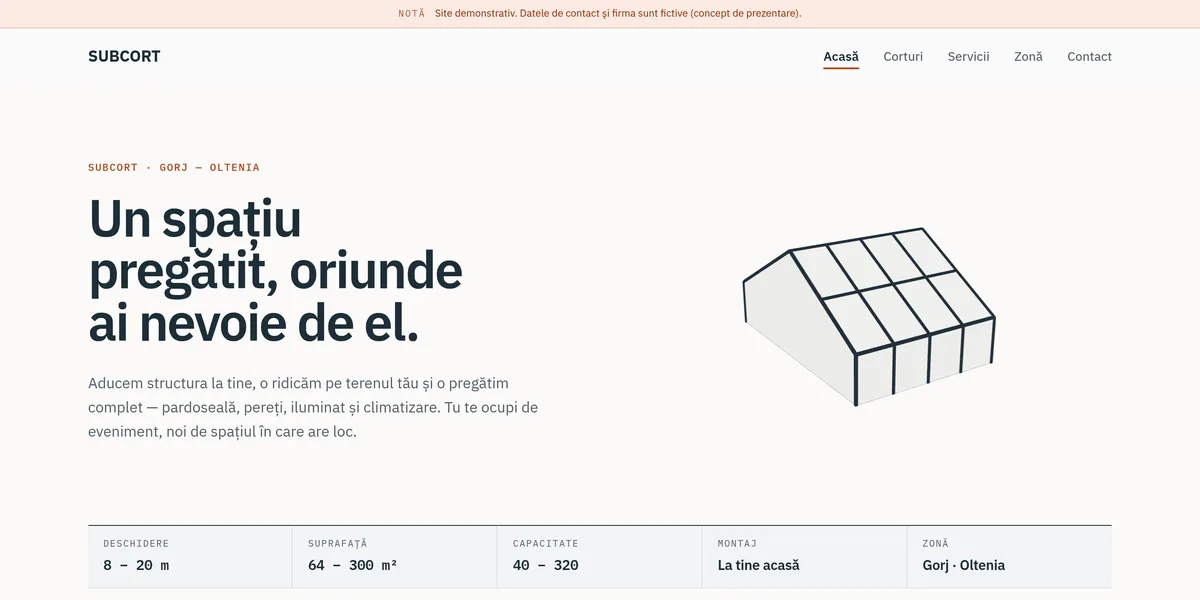
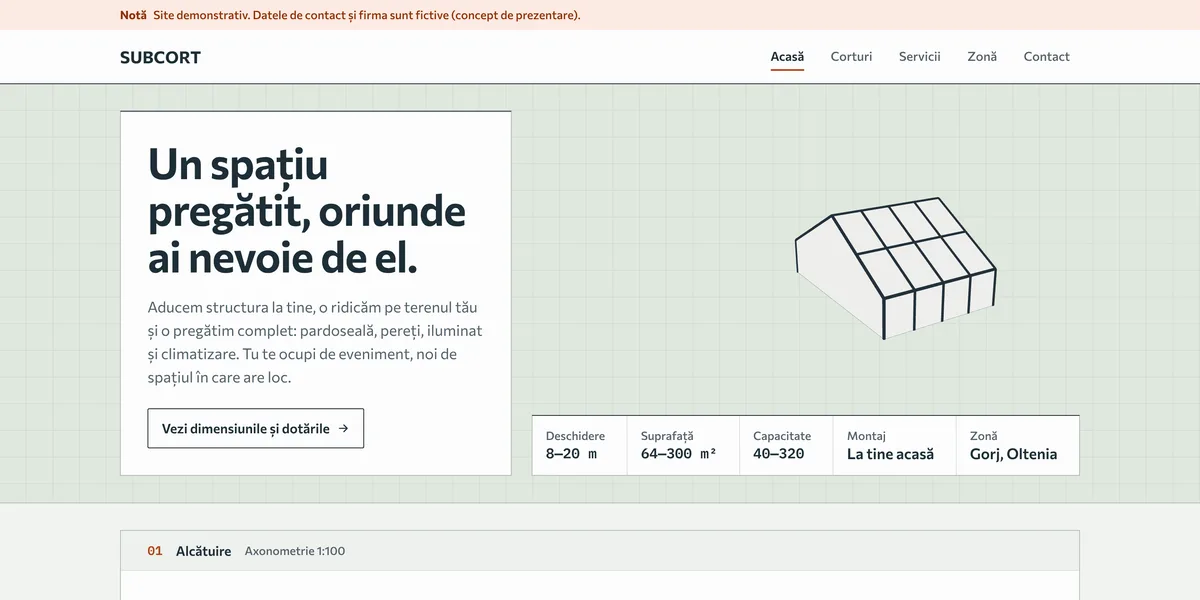
Docs: the README and the four business sites' screenshots after their redesigns
The saloon, auto-service, subcort and tractari first screens are re-taken from local dev servers (saloon and auto-service in mock mode), since the 2026-11-13 redesigns are not deployed. shots.md records the method, the ports and why tractari is clipped. churchix and design-study keep their 2026-10-09 captures; churchix's is due for a re-take.

README, docs/README.md, adding-a-site.md, architecture.md and getting-started.md follow the redesigns and the current scripts.

Committed from an interrupted run: the commands in getting-started were not all re-run.

Claude-Session: https://claude.ai/code/session_01RnCo6KceG18CeLXhzKq2En

diff --git a/README.md b/README.md
@@ -4,22 +4,22 @@ Websites for small businesses in Gorj, Romania, one static Astro site per busine
 
 <table>
 <tr>
-<td width="33%" valign="top"><img src="docs/images/saloon-home.webp" alt="Ana Saloon home page: the headline 'Unghii care vorbesc despre tine', a green WhatsApp booking button and a photo of a hand with pink and blue nails"><br><b>Nail salon</b>, Târgu-Jiu<br><code>/saloon/</code></td>
-<td width="33%" valign="top"><img src="docs/images/auto-service-home.webp" alt="BavAuto Gorj home page on a dark background: the headline 'BMW-ul tău, pe mâini care îl citesc.' beside a drawn rev counter and a smaller gauge"><br><b>BMW repair garage</b>, Târgu-Jiu<br><code>/auto-service/</code></td>
-<td width="33%" valign="top"><img src="docs/images/tractari-home.webp" alt="AXA Tractări home page: the headline 'Tractări auto pe platformă.' in white and yellow over a 3D night scene of a tow truck on a winding road"><br><b>Car towing</b> demo, Oltenia<br><code>/tractari/</code></td>
+<td width="33%" valign="top"><img src="docs/images/saloon-home.webp" alt="Ana Saloon home page on a blush ground: the headline 'Unghii care vorbesc despre tine', a green WhatsApp booking button, a placeholder where the hero photo goes, and the 'Servicii & prețuri' card with prices from 80 lei"><br><b>Nail salon</b>, Târgu-Jiu<br><code>/saloon/</code></td>
+<td width="33%" valign="top"><img src="docs/images/auto-service-home.webp" alt="BavAuto Gorj home page on warm graphite: the headline 'BMW-ul tău, pe mâini care îl citesc.' beside a light card with a red call button, a WhatsApp button and three common faults to write about"><br><b>BMW repair garage</b>, Târgu-Jiu<br><code>/auto-service/</code></td>
+<td width="33%" valign="top"><img src="docs/images/tractari-home.webp" alt="AXA Tractări home page on dark asphalt: the headline 'Tractări auto pe platformă.' above a board of three phone lines, the first one in orange"><br><b>Car towing</b> demo, Oltenia<br><code>/tractari/</code></td>
 </tr>
 <tr>
-<td width="33%" valign="top"><img src="docs/images/subcort-home.webp" alt="Subcort home page: the headline 'Un spațiu pregătit, oriunde ai nevoie de el.' beside a line drawing of a marquee tent, with a strip of tent sizes below"><br><b>Event tent rental</b> demo, Gorj<br><code>/subcort/</code></td>
+<td width="33%" valign="top"><img src="docs/images/subcort-home.webp" alt="Subcort home page: the headline 'Un spațiu pregătit, oriunde ai nevoie de el.' on a white card over a sage grid, a line drawing of a marquee tent, and a strip of tent sizes below it"><br><b>Event tent rental</b> demo, Gorj<br><code>/subcort/</code></td>
 <td width="33%" valign="top"><img src="docs/images/churchix-home.webp" alt="Parish home page built on Churchix: the parish name in a large burgundy serif, the next service, and this week's schedule"><br><b>Orthodox parish</b> on the Churchix platform<br><code>/churchix/</code></td>
 <td width="33%" valign="top"><img src="docs/images/design-study-home.webp" alt="Fourteen Renderings index page: the title on a dark background above a grid of style cards, starting with Minimalism, Swiss Design and Brutalism"><br><b>Design study</b>: one blog in 14 styles<br><code>/design-study/</code></td>
 </tr>
 </table>
 
-**Status:** Maintenance and demos, as of the [2026-10-07 status page](corpus/wiki/status.md). All six are live on the production site. The two client sites, the salon and the garage, are code-complete and wait on the owners' real data, so both still show a "site în lucru" banner. The towing and tent sites are finished demos for made-up firms. Churchix is the only one with an open roadmap.
+**Status:** Maintenance and demos, as of the [status page](corpus/wiki/status.md) (updated 2026-11-13). All six are live on the production site. The salon, the garage, the tent site and the towing site were redesigned on 2026-11-13 and wait on a deploy, so the first four pictures above show the local builds, with placeholder photos. The two client sites, the salon and the garage, are code-complete and wait on the owners' real data, so both still show a "site în lucru" banner. The towing and tent sites are finished demos for made-up firms. Churchix is the only one with an open roadmap.
 
 ## What it does
 
-- Gives each business its own Romanian-language site, built around one action: phone the business or message it on WhatsApp.
+- Gives each business its own Romanian-language site. The salon, the garage and the towing firm are built around one action: phone the business or message it on WhatsApp. The tent site has no calls to action on purpose; it explains the service and leaves the contact details to the visitor.
 - Builds each site to plain static files, which Caddy serves under the site's own path on the production domain.
 - Keeps real phone numbers, addresses and photos out of git. They sit in gitignored files that the build merges in, so a clone builds with placeholders.
 - Gives every site a docs site at `/<site>/docs/`, rendered from that site's own README, PRODUCT.md, DESIGN.md and notes.
@@ -28,7 +28,7 @@ The sites share one small package, `@sites/kit`, and nothing else, so you can re
 
 ## How it works
 
-`package.json` at the root is an npm-workspaces root over `sites/*`, `sites/*/docs-site` and `packages/*`. Each site is Astro 7 with static output, React islands where something has to be interactive, and Tailwind v4, except design-study, which uses none. Root scripts such as `saloon:dev` pass through to one workspace by its package name. `@sites/kit` supplies base-path URLs and the switch between committed SVG placeholders and real photos. churchix is its own monorepo inside this one, with its own lockfile. More in [docs/architecture.md](docs/architecture.md).
+`package.json` at the root is an npm-workspaces root over `sites/*`, `sites/*/docs-site` and `packages/*`. Each site is Astro 7 with static output, React islands where something has to be interactive, and Tailwind v4, except design-study, which uses none. Root scripts such as `saloon:dev` pass through to one workspace by its package name. `@sites/kit` supplies base-path URLs and the switch between committed SVG placeholders and real photos. The four business sites share one house style for format, lint and typecheck, and one Playwright folder, `e2e/`, that checks their phone menus, contrast, focus ring, reduced motion and overflow at phone width. churchix is its own monorepo inside this one, with its own lockfile. More in [docs/architecture.md](docs/architecture.md).
 
 ## Run it locally
 
@@ -39,7 +39,7 @@ npm install            # once, at the root; covers every site
 npm run tractari:dev   # Astro dev server, http://localhost:4321/ by default
 ```
 
-Swap `tractari` for `saloon`, `auto-service`, `subcort` or `design-study`. The salon's dev script asks for real photos, which are not in git, so on a fresh clone run `npm run saloon -- dev:mock` instead. Builds, docs sites, churchix and the port flag: [docs/getting-started.md](docs/getting-started.md).
+Swap `tractari` for `saloon`, `auto-service`, `subcort` or `design-study`. The salon's and the garage's `dev` scripts ask for real photos, which are not in git, so on a fresh clone use their mock variants: `npm run saloon -- dev:mock` or `npm run auto-service -- dev:mock`. Builds, docs sites, churchix, the port flag and the checks (`npm run check`, `npm run test:e2e`): [docs/getting-started.md](docs/getting-started.md).
 
 ## Project layout
 
@@ -47,14 +47,16 @@ Swap `tractari` for `saloon`, `auto-service`, `subcort` or `design-study`. The s
 |---|---|
 | `sites/` | One workspace per site: `saloon`, `auto-service`, `subcort`, `tractari`, `design-study`. Each has its own README, PRODUCT.md, DESIGN.md and a Docusaurus `docs-site/` |
 | `packages/site-kit/` | `@sites/kit`, the only code the sites share |
+| `e2e/` | Playwright specs for the four business sites: the shared checks and one spec per site |
 | `churchix/` | Churchix, a white-label platform for Orthodox parish sites. Its own monorepo, not a workspace here |
 | `corpus/` | The repo's wiki: layout, decisions, status, work briefs |
 | `docs/` | The guides and images this README links to |
-| `package.json` | Workspace root and the per-site passthrough scripts |
+| `vendor/house-style/` | A generated copy of the house style the root configs extend. Never edited by hand |
+| `package.json` | Workspace root, the per-site passthrough scripts and the checks |
 
 ## Docs
 
-- [docs/](docs/README.md): every site with its live URL, docs site and README, plus setup, architecture and adding a site
+- [docs/](docs/README.md): every site with its live path, docs site and README, plus setup, checks, architecture and adding a site
 - Docs sites: `/<site>/docs/`, for example `/saloon/docs/`
 - [Project wiki](corpus/index.md): decisions, status and the briefs behind past work
 - [churchix/README.md](churchix/README.md) and its own [wiki](churchix/corpus/index.md)

diff --git a/docs/images/shots.md b/docs/images/shots.md
@@ -2,33 +2,55 @@
 
 How each image was made, so the next refresh is a re-run. Re-take an image when that site's first screen changes.
 
-All six are the first screen of the live site, taken on 2026-10-09 with no interaction: open the URL, wait for the network to go idle, wait five more seconds so the Three.js heroes on tractari and subcort finish drawing, then screenshot the viewport.
+Each image is a site's first screen with no interaction: open the page, wait for the network to go idle, wait five more seconds so the Three.js tent on subcort finishes drawing, then screenshot the viewport at 1440×720 @2x in the Europe/Bucharest time zone.
 
-| File | Shows | URL | Viewport | Data | Taken |
+The four business sites were re-taken on 2026-11-16, after their 2026-11-13 redesigns, from local dev servers with the committed placeholders, since the redesigns are not deployed yet. The salon and the garage ran in mock mode (`npm run saloon -- dev:mock`, `npm run auto-service -- dev:mock`), so no real photo or real phone number is in them. churchix and design-study are older captures of the live site.
+
+| File | Shows | How to reach it | Viewport | Data | Taken |
 |---|---|---|---|---|---|
-| saloon-home.webp | Hero: headline, WhatsApp button, nail photo | `/saloon/` | 1440×720 @2x | live site, real nail photo | 2026-10-09 |
-| auto-service-home.webp | Hero: headline and the drawn rev counter | `/auto-service/` | 1440×720 @2x | live site; phone shown as the placeholder 07XX XXX XXX | 2026-10-09 |
-| tractari-home.webp | Hero: headline over the night-road scene | `/tractari/` | 1440×720 @2x | live demo, made-up firm and phone | 2026-10-09 |
-| subcort-home.webp | Hero: headline, tent drawing, size strip | `/subcort/` | 1440×720 @2x | live demo, made-up firm | 2026-10-09 |
-| churchix-home.webp | Parish home: name, next service, week schedule | `/churchix/` | 1440×720 @2x | live site; the photo slot is still a placeholder | 2026-10-09 |
-| design-study-home.webp | Index: title and the first style cards | `/design-study/` | 1440×720 @2x | live site, made-up blog | 2026-10-09 |
+| saloon-home.webp | Hero: headline, WhatsApp button, the photo slot beside the Servicii & prețuri card | `npm run saloon -- dev:mock`, open `/` | 1440×720 @2x | committed placeholders; the photo slot reads "Hero photo" | 2026-11-16 |
+| auto-service-home.webp | Hero: headline, facts table, the job card with call and WhatsApp | `npm run auto-service -- dev:mock`, open `/` | 1440×720 @2x | committed placeholders; phone shown as 07XX XXX XXX | 2026-11-16 |
+| tractari-home.webp | Hero: headline and the board of three phone lines | `npm run tractari:dev`, open `/` | 1440×720 @2x, clipped to 1380×690 from x=30 | made-up firm, line names and phones | 2026-11-16 |
+| subcort-home.webp | Hero: headline card on the sage grid, the tent, the size strip | `npm run subcort:dev`, open `/` | 1440×720 @2x | made-up firm | 2026-11-16 |
+| churchix-home.webp | Parish home: name, next service, week schedule | `/churchix/` on the live site | 1440×720 @2x | live site; the photo slot is still a placeholder | 2026-10-09 |
+| design-study-home.webp | Index: title and the first style cards | `/design-study/` on the live site | 1440×720 @2x | live site, made-up blog | 2026-10-09 |
+
+churchix-home.webp shows the parish home from before churchix's 2026-11-13 redesign and is due for a re-take; it was not re-taken on 2026-11-16 because that refresh left `churchix/` alone. The design-study index has not changed since 2026-08-24. Its page uses the system font stack, so a re-take on another machine draws the title in a different face.
 
 ## Why 720 high
 
-At 1440×900 the salon's page shows the top of its "Bună, sunt Ana" section, which has a portrait of a real person. A 720 px viewport stops above it. Keep it at 720 or less, and check the bottom edge of the salon image whenever you re-take it. Do the same for any site that starts shipping staff photos or a private phone number in its first screen.
+At 1440×900 the salon's page shows the top of its "Bună, sunt Ana" section, which has a portrait of a real person when the real photos are in. A 720 px viewport stops above it. Keep it at 720 or less, and check the bottom edge of the salon image whenever you re-take it. Do the same for any site that starts shipping staff photos or a private phone number in its first screen.
+
+tractari's demo contact email sits just under the phone board, at 703 px. The clip to 1380×690 keeps it out and keeps the 2:1 shape of the other five.
 
 ## Commands
 
+The dev servers take a port after the passthrough's `--` (two for `<site>:dev`, one after the script name for `<site> -- dev:mock`):
+
 ```bash
-S="agent-browser --session presentation-sites"
-$S set viewport 1440 720 2
-$S open <origin>/saloon/
-$S wait --load networkidle
-$S wait 5000
-$S screenshot /abs/path/saloon.png      # always an absolute path
-# repeat open/wait/screenshot for each site, then:
-ffmpeg -y -loglevel error -i saloon.png -vf scale=1200:-1:flags=lanczos -c:v libwebp -quality 82 docs/images/saloon-home.webp
-agent-browser --session presentation-sites close
+npm run saloon -- dev:mock -- --port 6301
+npm run auto-service -- dev:mock -- --port 6302
+npm run subcort:dev -- -- --port 6303
+npm run tractari:dev -- -- --port 6304
 ```
 
-Each WebP is 1200×600 and 30 to 42 KB.
+Then a Playwright script, one browser context per site:
+
+```js
+const context = await browser.newContext({
+  viewport: { width: 1440, height: 720 },
+  deviceScaleFactor: 2,
+  timezoneId: "Europe/Bucharest",
+});
+const page = await context.newPage();
+await page.goto(url, { waitUntil: "networkidle" });
+await page.addStyleTag({ content: "astro-dev-toolbar{display:none!important}" }); // the dev server's toolbar
+await page.waitForTimeout(5000);
+await page.screenshot({ path: "/abs/path/saloon.png" }); // tractari: clip { x: 30, y: 0, width: 1380, height: 690 }
+```
+
+```bash
+ffmpeg -y -loglevel error -i saloon.png -vf scale=1200:-1:flags=lanczos -c:v libwebp -quality 82 docs/images/saloon-home.webp
+```
+
+Each WebP is 1200×600 and 29 to 41 KB. Stop the dev servers afterwards: started without a terminal, `astro dev` detaches and prints its pid.

diff --git a/docs/architecture.md b/docs/architecture.md
@@ -14,9 +14,11 @@ flowchart LR
   churchix["churchix/<br/>own monorepo"] -->|apps/church/dist| caddy
 ```
 
-- **sites/** holds five sites, each its own workspace. saloon, auto-service, subcort and tractari share one shape: Astro 7 with static output, React 19 islands where something has to be interactive, Tailwind v4 with its tokens in CSS, and content as typed TypeScript in `src/content/*.ts`. tractari and subcort add a Three.js hero. design-study is Astro with React islands and no Tailwind; each of its 14 themes owns its markup, CSS and fonts.
+- **sites/** holds five sites, each its own workspace. saloon, auto-service, subcort and tractari share one shape: Astro 7 with static output, React 19 islands where something has to be interactive, Tailwind v4 with its tokens in CSS, and content as typed TypeScript in `src/content/*.ts`. subcort draws its hero tent in Three.js. tractari has a Three.js night-road scene too, which since its 2026-11-13 redesign sits as a plate in the "Cum funcționează" section, below a hero of type and phone lines. design-study is Astro with React islands and no Tailwind; each of its 14 themes owns its markup, CSS and fonts.
 - **packages/site-kit** is `@sites/kit`. It holds the code that was byte-identical across sites: `withBase()` for sub-path URLs, `createImages()` for the placeholder/real photo switch, and the `SiteOverridesOf` type. It ships TypeScript source with no build step, so each site lists it under `vite.ssr.noExternal` and Vite compiles it per site. The bar for adding to it is identical logic, not similar logic; [its README](../packages/site-kit/README.md) lists what was kept out and why.
 - **`sites/<site>/docs-site`** is a Docusaurus site that renders the site's own Markdown into pages at `/<site>/docs/`.
+- **e2e/** holds the Playwright specs for saloon, auto-service, subcort and tractari. `playwright.config.ts` starts one dev server per site on its own port (4701 to 4704) and runs each spec at 390×844 with touch and at 1280×800 with a mouse. The shared Floor checks (`floor-*.spec.ts`) cover contrast, the focus ring, reduced motion and overflow at 390 px; the contrast spec reads the built `dist/`, so build the site first. `mobile-menu.spec.ts` covers the four phone menus, and each site has a spec of its own (auto-service's is `auto-service-job-card.spec.ts`). saloon's, subcort's and tractari's specs also hold a `shots` test that writes screenshots when `SHOTS_DIR` is set.
+- **vendor/house-style/** is a generated copy of the estate's house style. `eslint.config.mjs`, `prettier.config.mjs`, `.dependency-cruiser.cjs` and `knip.config.js` at the root extend it; `npm run house-style:sync` refreshes it. churchix, the docs sites and design-study stay outside lint and format.
 - **churchix/** is a white-label platform: shared `@churchix/*` packages and one independent Astro app per parish. It is not a workspace here because one workspace root cannot nest inside another. [churchix/CLAUDE.md](../churchix/CLAUDE.md) governs it.
 
 ## Where each kind of doc lives
@@ -45,3 +47,5 @@ Every project uses the same layout:
 - [corpus/wiki/architecture.md](../corpus/wiki/architecture.md): the full as-built description, including the image pipeline and the docs-site scripts
 - [corpus/wiki/decisions.md](../corpus/wiki/decisions.md): why the sites share so little, why deploy lives elsewhere, why real data is gitignored
 - [corpus/wiki/design-styles.md](../corpus/wiki/design-styles.md): the 14 design-style dossiers from design-study and how to reuse them
+- [corpus/wiki/decisions-ui.md](../corpus/wiki/decisions-ui.md): what the React islands depend on, and the visual calls reopened by the 2026-11-13 redesigns
+- [corpus/wiki/decisions-house-style.md](../corpus/wiki/decisions-house-style.md): the format, lint and typecheck setup, what `npm run check` runs and what stays outside it

diff --git a/docs/getting-started.md b/docs/getting-started.md
@@ -52,7 +52,7 @@ Real business details such as the phone, address, company ID and map coordinates
 Real photos live in `public/images/real/`, also gitignored. Each site addresses images by a logical name, and `@sites/kit` picks the real photo or the committed SVG placeholder:
 
 - **saloon** asks for real photos in `dev`, `build` and `preview`. On a clone without them, use the mock variants: `npm run saloon -- dev:mock`, `npm run saloon:build:mock`.
-- **auto-service** asks for real photos too, but lists none, so it looks the same either way. It draws its workshop instead.
+- **auto-service** asks for real photos too, but lists none, so it looks the same either way. It draws its workshop instead. Its mock variants match the salon's: `npm run auto-service -- dev:mock`, `npm run auto-service:build:mock`.
 - **subcort**, **tractari** and **design-study** use placeholders or drawings by default.
 
 `npm run saloon:placeholders` regenerates the salon's SVG placeholders, and the same script exists for `auto-service` and `design-study`. `npm run subcort:og` redraws subcort's social card.
@@ -102,10 +102,27 @@ Read [churchix/README.md](../churchix/README.md) and [churchix/CLAUDE.md](../chu
 ## Checks
 
 ```bash
-npm run saloon:bots      # typecheck and tests for saloon's marketing/bots service
+npm run check            # the gate: typecheck, lint, format check, conventions, saloon bots
+npm run check:fast       # astro check in the sites with a changed file, then ESLint on the changed files
+npm run format           # Prettier writes every file it covers; Markdown stays out
+npm run test:e2e         # Playwright over the four business sites
 bash corpus/lint.sh      # health check for the project wiki
 ```
 
+`npm run check` runs before every hand-back. Its parts have their own scripts:
+
+| Script | What it runs |
+|---|---|
+| `npm run typecheck` | `tsc` over `e2e/` and the kit, then `astro check` in every site |
+| `npm run lint` | ESLint with the house config and an Astro layer, from the root |
+| `npm run format:check` | Prettier at width 120; Markdown, churchix, the docs sites and design-study stay out |
+| `npm run check:conventions` | knip, dependency-cruiser and the house checkers `check-base-ui` and `check-structure` |
+| `npm run saloon:bots` | typecheck and `node:test` suite of saloon's `marketing/bots/` service |
+
+`npm run check:fast` is the quick subset, and Claude Code's Stop hook runs it. The setup and its exceptions are on [decisions-house-style.md](../corpus/wiki/decisions-house-style.md).
+
+`npm run test:e2e` starts one dev server per site on ports 4701 to 4704 and runs every spec at phone and desktop size. Build the sites first, because the contrast spec reads `dist/` (`npm run saloon:build:mock` and `npm run auto-service:build:mock` where the real photos are missing). `SITES=tractari npm run test:e2e` runs one site. What each spec covers: [architecture.md](architecture.md).
+
 ## Deploy
 
-Not in this repo. Each site's `dist/` is served by Caddy under its own path on the VPS, and the build and upload tooling lives in a separate deploy repo. See [corpus/wiki/decisions.md](../corpus/wiki/decisions.md) before adding deploy scripts here.
+Not in this repo. Each site's `dist/` is served by Caddy under its own path on the VPS, and the build and upload tooling lives in a separate deploy repo, vps-deploy, where the owner runs `node cli.ts <site> deploy`. See [corpus/wiki/decisions.md](../corpus/wiki/decisions.md) before adding deploy scripts here.

diff --git a/docs/adding-a-site.md b/docs/adding-a-site.md
@@ -8,7 +8,8 @@ These steps moved here from the old root README. `sites/saloon/` is the model to
 4. Add a `<name>: dev server` entry to `.vscode/launch.json` that runs `npm run <name>:dev` from `${workspaceFolder}`.
 5. Give it the doc shape from [architecture.md](architecture.md#where-each-kind-of-doc-lives): `README.md`, `PRODUCT.md`, `DESIGN.md`, and a `docs/` folder if it needs one.
 6. Give it a docs site: copy `sites/saloon/docs-site/` to `sites/<name>/docs-site/`, rename the package to `@sites/<name>-docs`, set the base in its `docusaurus.config.ts` to `/<name>/docs/`, list the site's own pages in the `PAGES` array of `scripts/sync-corpus.mjs` and in `sidebars.ts`, pick its theme mode in `docusaurus.config.ts` and its tokens in `src/css/custom.css`, add `"docs-site"` to the site's `tsconfig.json` `exclude`, and add a root `"<name>:docs"` script.
-7. List it in the site table in [docs/README.md](README.md), and add its first screen to the table at the top of the [main README](../README.md) once it is live. [images/shots.md](images/shots.md) says how the others were taken.
+7. Put it under the checks. Add `-w <package-name>` to the root `typecheck` script and its folder to the `workspaces` map in `scripts/check-fast.mjs`. For a business site, also add `sites/<name>/src` to the `web` lists in `eslint.config.mjs` and `scripts/conventions.json` and to the dependency-cruiser paths in the `check:conventions` script, and give it an entry with a free port in the `sites` list of `e2e/playwright.config.ts` and its phone menu's shape in the `menus` map of `e2e/mobile-menu.spec.ts`. A study like design-study is typechecked only; [decisions-house-style.md](../corpus/wiki/decisions-house-style.md) says what stays outside. Run `npm run check`.
+8. List it in the site table in [docs/README.md](README.md), and add its first screen to the table at the top of the [main README](../README.md) once it is live. [images/shots.md](images/shots.md) says how the others were taken.
 
 The root `.gitignore` needs no edit. Its rules for `site.local.ts` and `public/images/real/` are `**/` patterns that cover any site.
 

diff --git a/docs/README.md b/docs/README.md
@@ -4,9 +4,9 @@ Start with the [main README](../README.md). This folder holds what it links to.
 
 | File | What it covers |
 |---|---|
-| [getting-started.md](getting-started.md) | Install, run one site, real vs placeholder photos, builds, docs sites, churchix |
-| [architecture.md](architecture.md) | How the workspaces fit together, what `@sites/kit` shares, where each kind of doc lives |
-| [adding-a-site.md](adding-a-site.md) | The steps for adding a new site to the workspace |
+| [getting-started.md](getting-started.md) | Install, run one site, real vs placeholder photos, builds, docs sites, churchix, the checks and the Playwright specs |
+| [architecture.md](architecture.md) | How the workspaces fit together, what `@sites/kit` shares, what `e2e/` and the house style cover, where each kind of doc lives |
+| [adding-a-site.md](adding-a-site.md) | The steps for adding a new site to the workspace and to the checks |
 | [images/](images/shots.md) | The screenshots in the README, and how each was made |
 
 ## The sites
